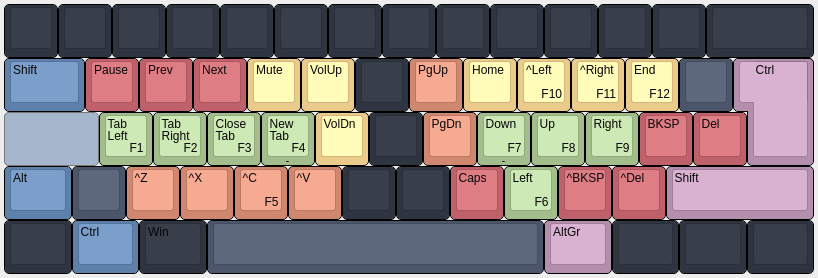
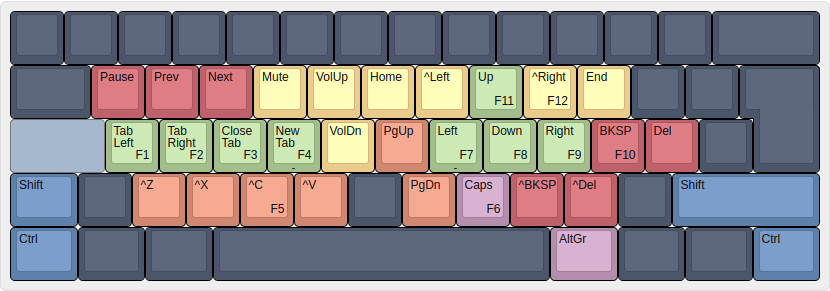
Updated images

diff --git a/README.md b/README.md
@@ -1,10 +1,9 @@
 # gfkl/wokmok
 
 gfkl/wokmok is a keyboard layout that I have created and use as my daily driver. It is intended to
-make it very comfortable to type both regular english and programming languages. The layout is built
-for a roughly 60% keyboard layout (or smaller). I currently do not own an ortholinear keyboard, but
-the design choices are made such that they also fit with ortholinear keyboards. Images are created
-with [this website](http://www.keyboard-layout-editor.com/)
+make it very comfortable to type both regular english and programming languages. The layout uses
+quite a fewer keys than standard layouts, making it possible to use for various custom keyboards.
+Images are created with [this website](http://www.keyboard-layout-editor.com/).
 
 ### Contents
 * [Current version](#current-version)
@@ -70,9 +69,9 @@ various Colemak layouts see [this](https://notgate.github.io/layout/).
 
 ## Layer 5
 
-This layer is very nice. It is also inspired by DreymaR's [Big Bag of
-Tricks](https://dreymar.colemak.org/). The '^' signalizes that the key is sent with the ctrl
-modifier enabled.
+This layer is very nice. It is actived by holding the caps lock key. It is also inspired by
+DreymaR's [Big Bag of Tricks](https://dreymar.colemak.org/). The '^' signalizes that the key is sent
+with the ctrl modifier enabled.
 
 ![Layer 5](images/layer5.png)
 
